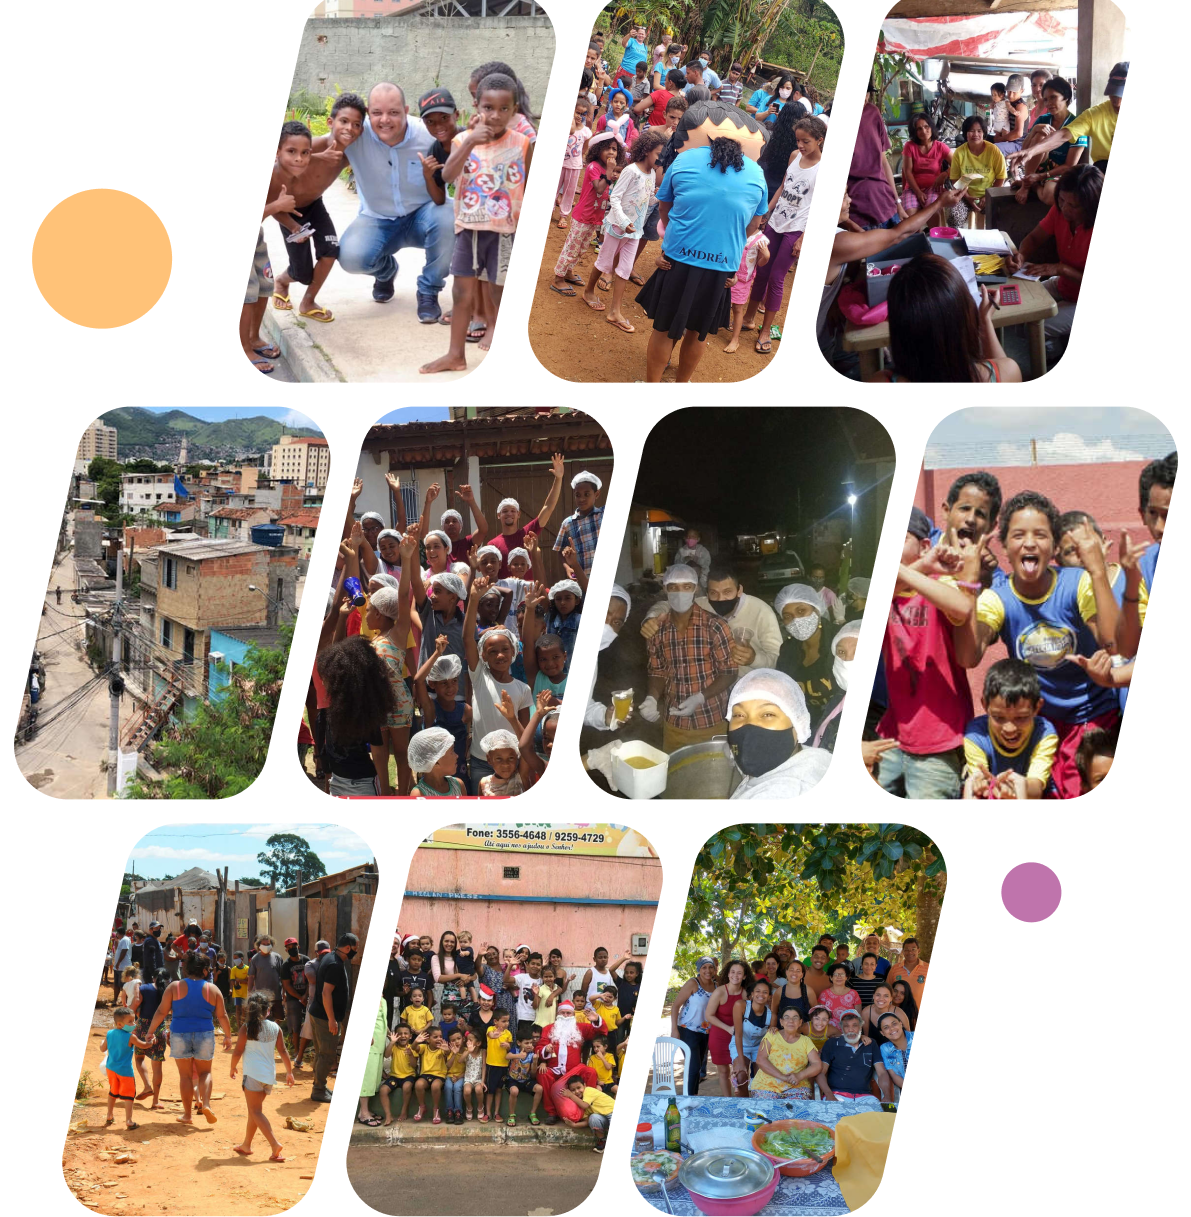
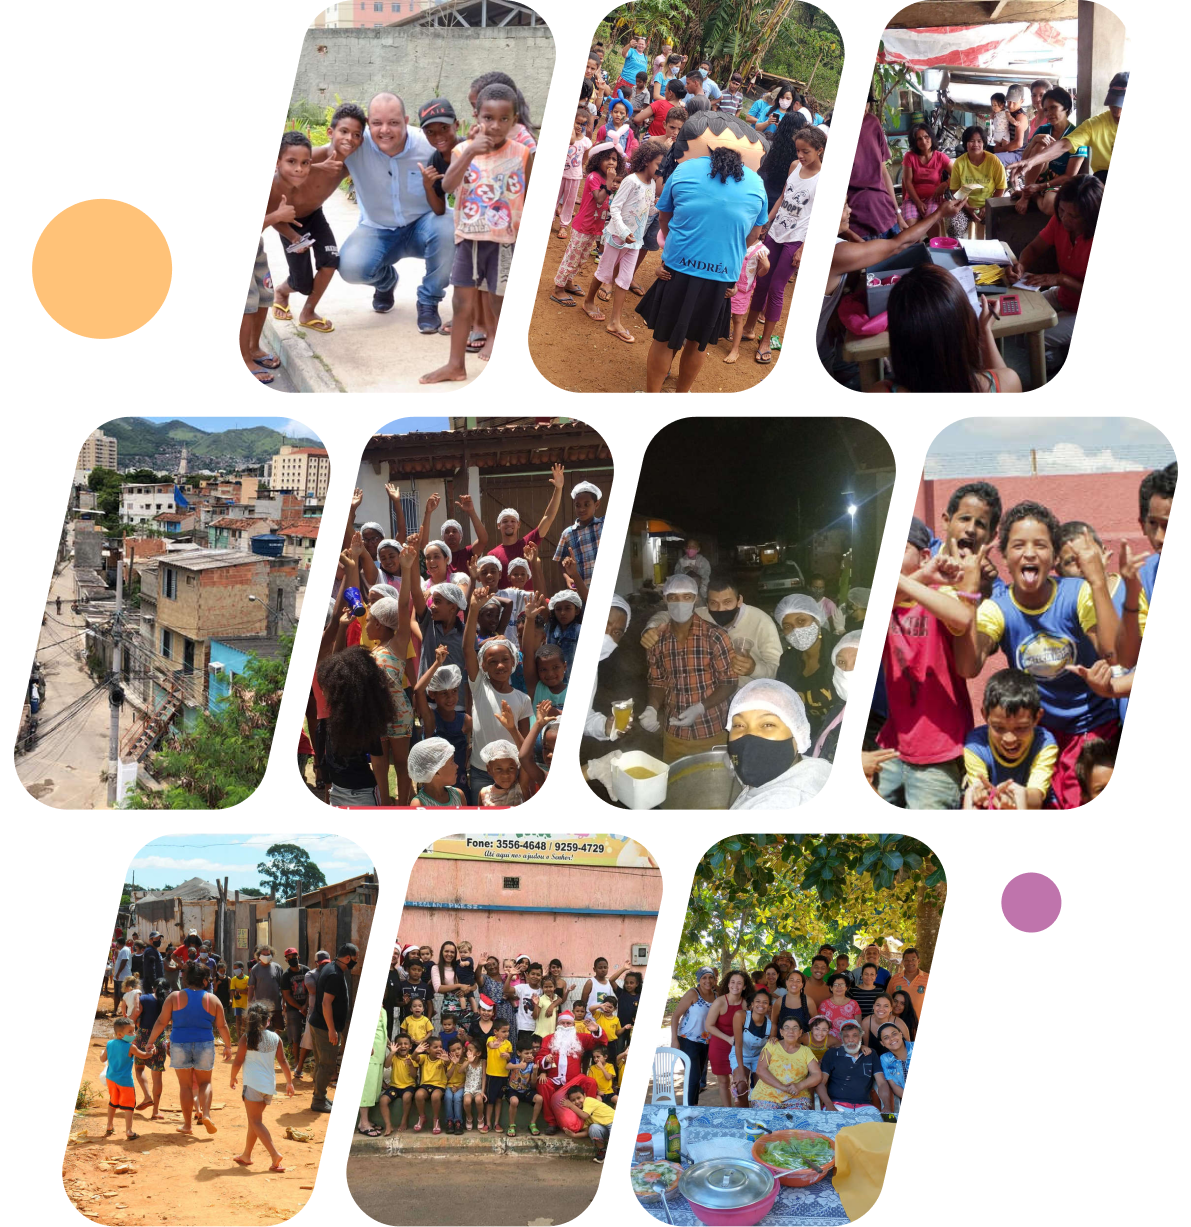
Fix homepage hero padding and image

diff --git a/src/page-components/Homepage/Hero/Hero.tsx b/src/page-components/Homepage/Hero/Hero.tsx
@@ -23,7 +23,7 @@ export const Hero = () => {
     const handleDlownloadButtonClick = useCallback(() => scroller.scrollTo('cta', scrollOptions), []);
 
     return (
-        <Section pb={{ sm: 4, xs: 2 }}>
+        <Section pb={{ xs: 2 }}>
             <Grid>
                 <Row middle="xs" reverse>
                     {/* eslint-disable-next-line react/jsx-sort-props */}
